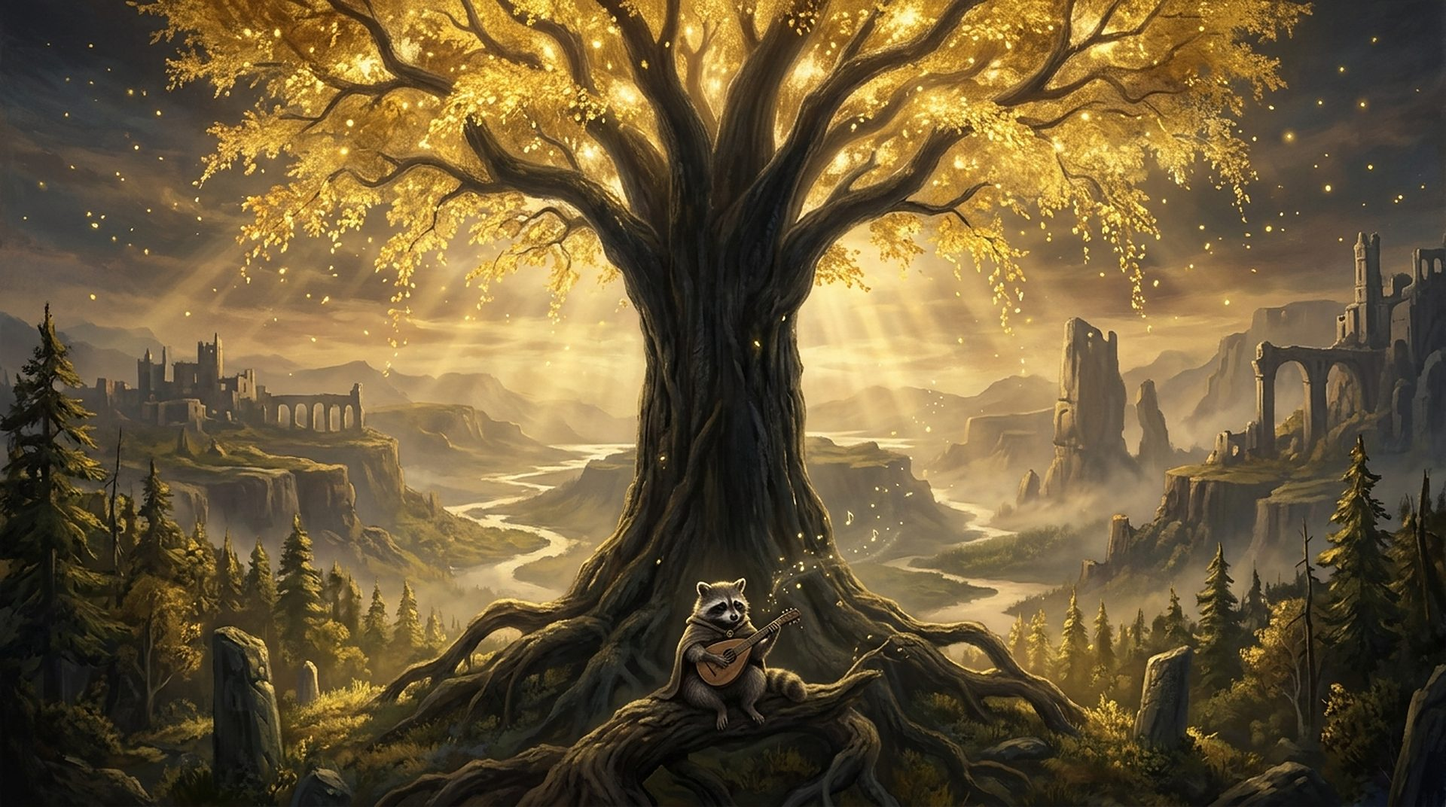
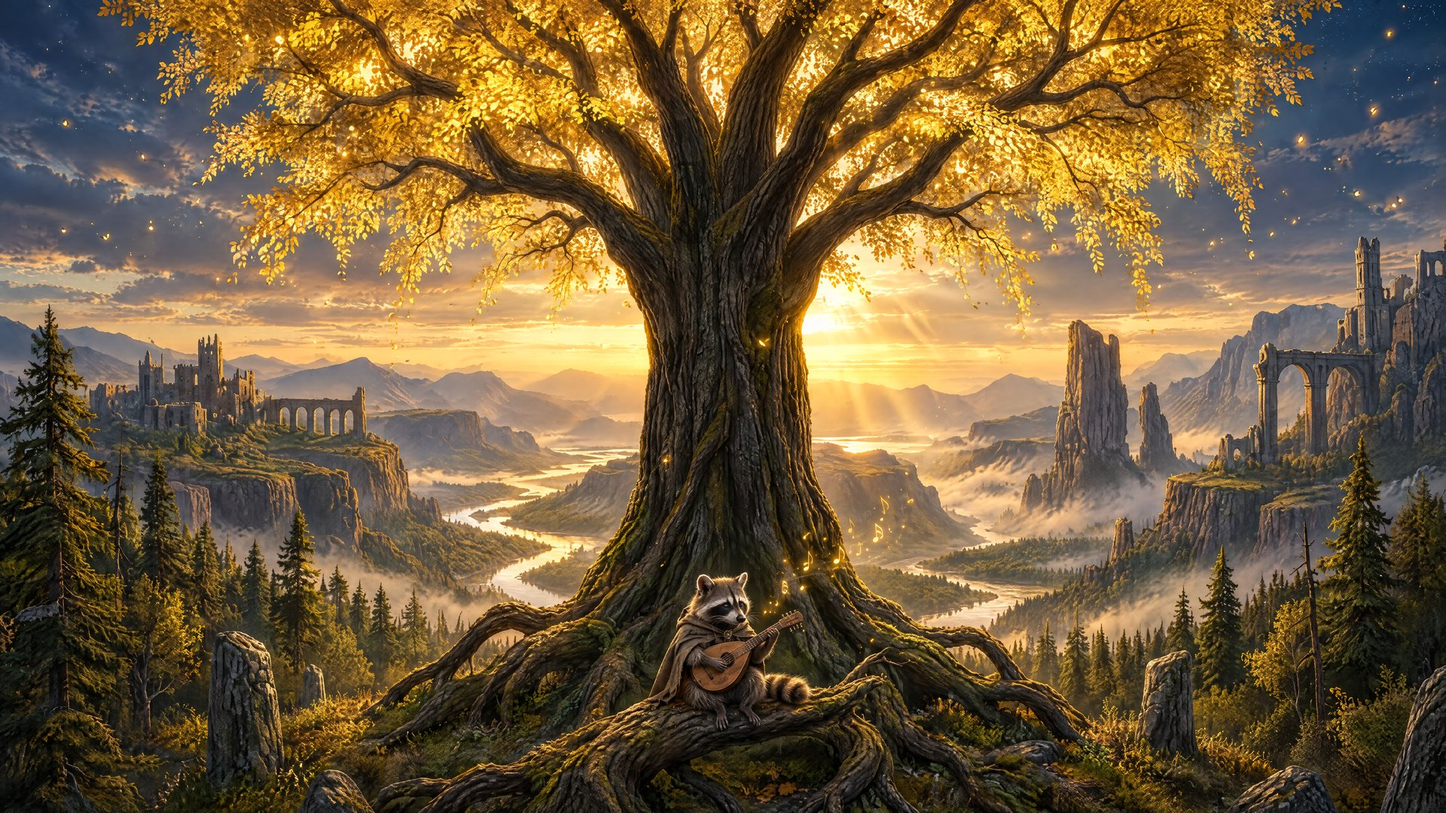
Csak zene: 8K-s fotoreál háttér (nappal és éjjel), képernyőhöz illő méretek

diff --git a/server/public/index.html b/server/public/index.html
@@ -459,9 +459,15 @@ html,body{overflow-x:clip}   /* telefonon semmi ne tolja szélesebbre az oldalt 
 .focusview{display:none}
 html.focus main,html.focus .beta,html.focus .chdue,html.focus .oldv{display:none!important}
 html.focus .focusview{display:block;position:relative;height:calc(100svh - 44px);min-height:420px;overflow:hidden;background:#120c08}
-.fbg{position:absolute;inset:0;background:#120c08 url(img/focus-day-wide.jpg) 50% 100%/cover no-repeat}
-:root[data-theme="dark"] .fbg{background-image:url(img/focus-night-wide.jpg)}
-@media (orientation:portrait){.fbg{background-image:url(img/focus-day-tall.jpg)}:root[data-theme="dark"] .fbg{background-image:url(img/focus-night-tall.jpg)}}
+.fbg{--fd:url(img/focus-day-wide.jpg);--fn:url(img/focus-night-wide.jpg);position:absolute;inset:0;background:#120c08 var(--fd) 50% 100%/cover no-repeat}
+:root[data-theme="dark"] .fbg{background-image:var(--fn)}
+/* 8K fókuszkép: a képernyő valódi pixelszámához illő méret töltődik */
+.fbg{--fd:url(img/focus-day-wide-1920.webp);--fn:url(img/focus-night-wide-1920.webp)}
+@media (min-width:1100px) and (min-resolution:1.5dppx),(min-width:2000px){.fbg{--fd:url(img/focus-day-wide-3840.webp);--fn:url(img/focus-night-wide-3840.webp)}}
+@media (min-width:2000px) and (min-resolution:1.5dppx),(min-width:4000px){.fbg{--fd:url(img/focus-day-wide-7680.webp);--fn:url(img/focus-night-wide-7680.webp)}}
+@media (orientation:portrait){.fbg{--fd:url(img/focus-day-tall.jpg);--fn:url(img/focus-night-tall.jpg)}}
+@media (orientation:portrait) and (min-resolution:1.5dppx),(orientation:portrait) and (min-width:700px){.fbg{--fd:url(img/focus-day-tall-1620.webp);--fn:url(img/focus-night-tall-1620.webp)}}
+@media (orientation:portrait) and (min-width:900px) and (min-resolution:1.5dppx),(orientation:portrait) and (min-resolution:3dppx){.fbg{--fd:url(img/focus-day-tall-2430.webp);--fn:url(img/focus-night-tall-2430.webp)}}
 .fpanel{position:absolute;right:24px;bottom:24px;width:min(380px,calc(100% - 32px));padding:16px 18px}
 .fk{font-size:.74rem;letter-spacing:.12em;text-transform:uppercase;color:#ffd9a8;font-weight:800}
 .fnow{margin-top:6px;font-weight:800;font-size:1.05rem;line-height:1.3;color:#fff}
